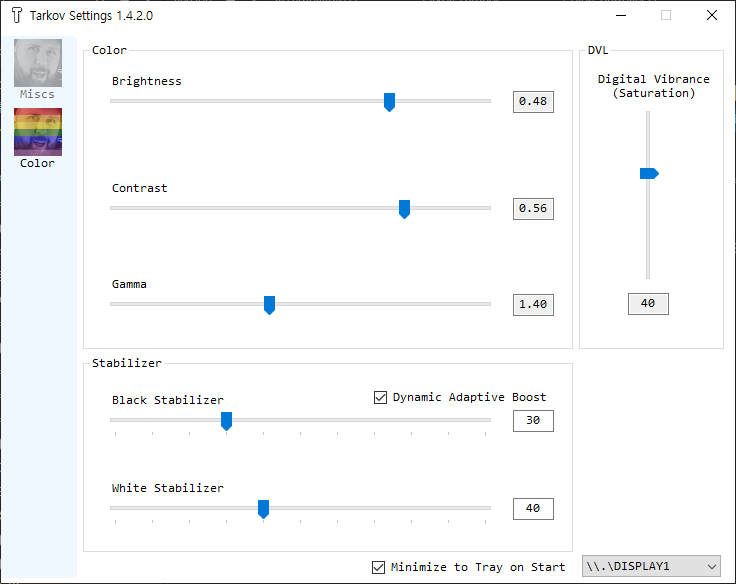
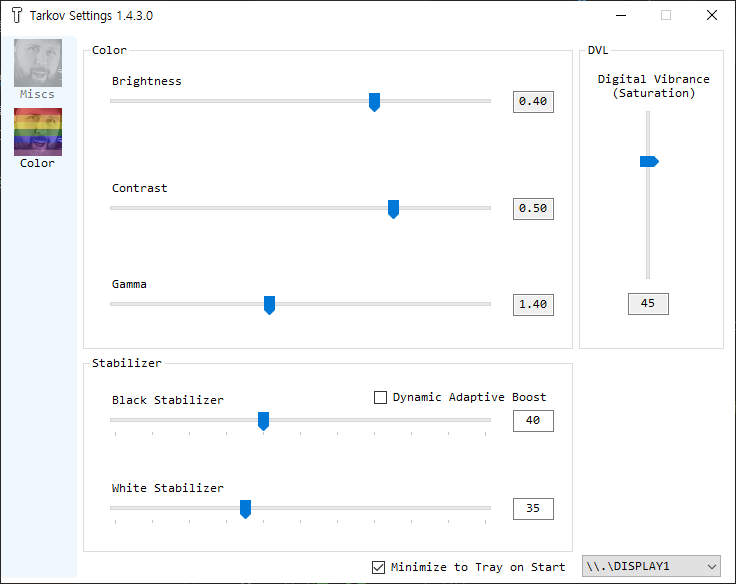
1.4.3.0 update

diff --git a/Properties/AssemblyInfo.cs b/Properties/AssemblyInfo.cs
@@ -32,5 +32,5 @@ using System.Runtime.InteropServices;
 // 모든 값을 지정하거나 아래와 같이 '*'를 사용하여 빌드 번호 및 수정 번호를
 // 기본값으로 할 수 있습니다.
 // [assembly: AssemblyVersion("1.0.*")]
-[assembly: AssemblyVersion("1.4.2.0")]
-[assembly: AssemblyFileVersion("1.4.2.0")]
+[assembly: AssemblyVersion("1.4.3.0")]
+[assembly: AssemblyFileVersion("1.4.3.0")]
